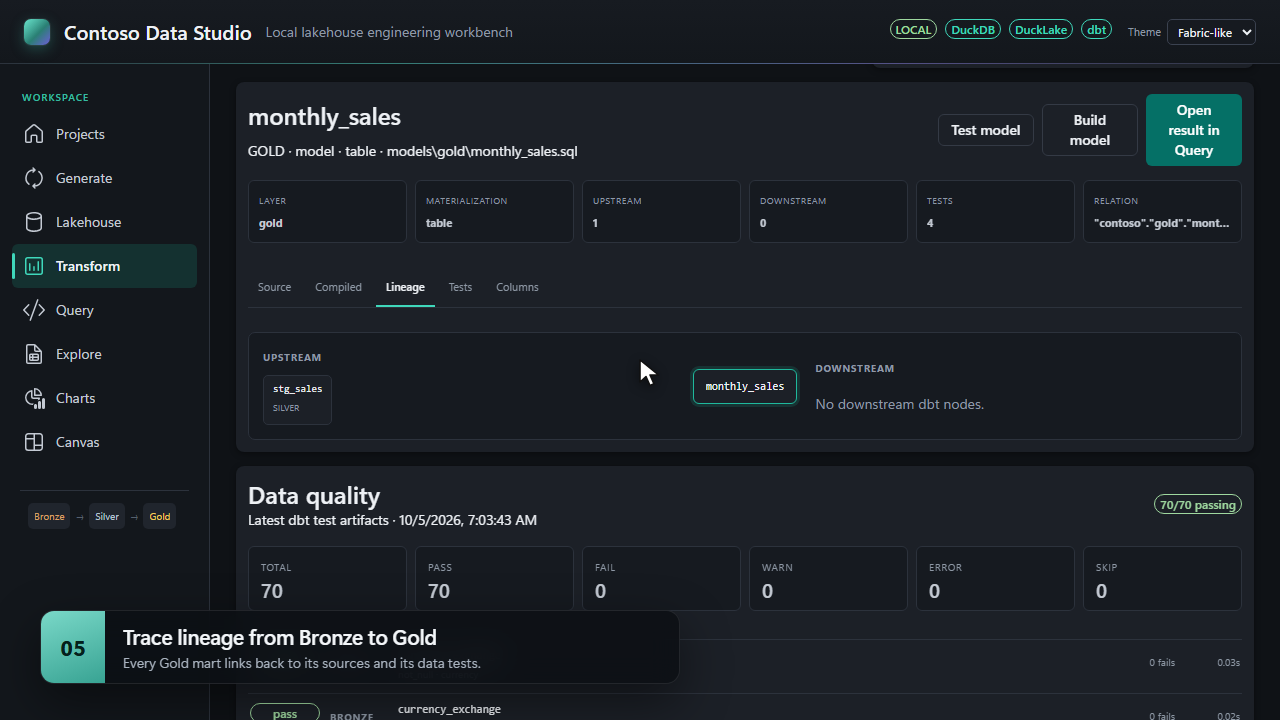
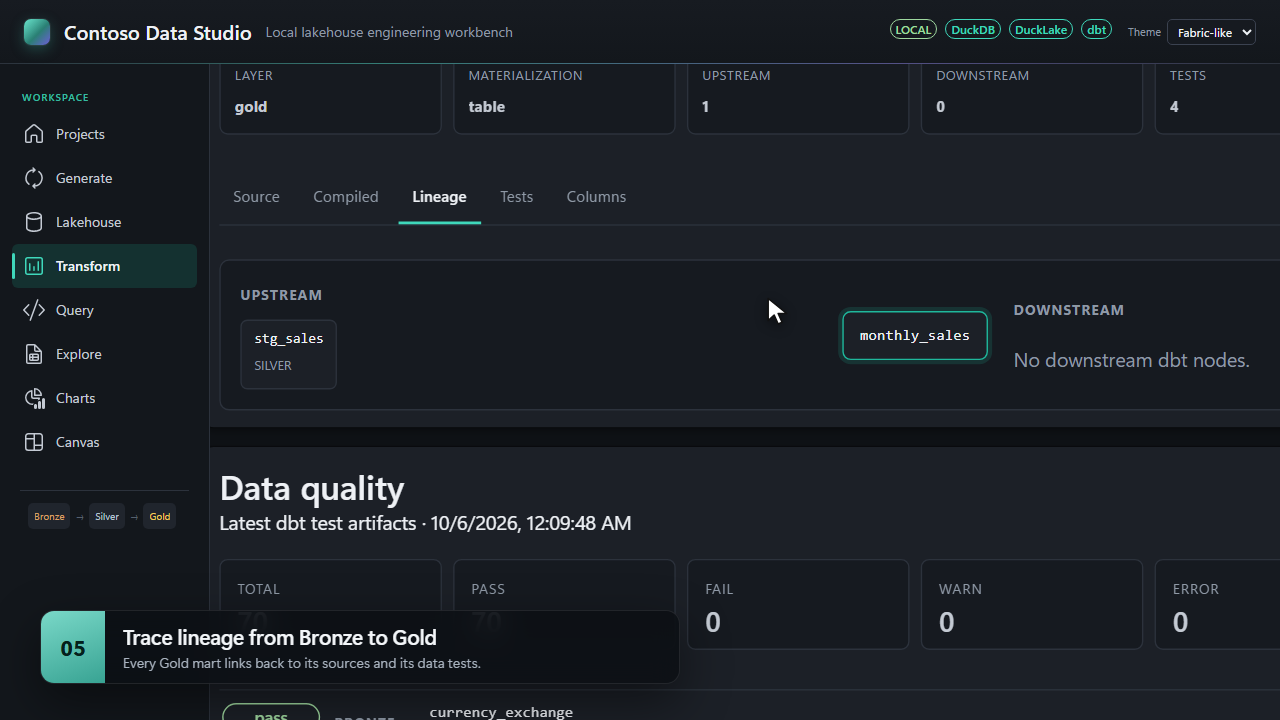
polish: tour zoom framing
Solve camera scale and pan from the focus group's bounding boxes at
capture time so the whole group stays in a safe frame; skip zooms that
cannot hold the group whole (KPI row). Add a per-frame clipping check
(focus in view, group never cut by an edge) that fails the run. Lineage
zoom now frames painted content and is used (x1.4). Re-rendered stills
and metadata.

diff --git a/README.md b/README.md
@@ -106,4 +106,4 @@ See `docs/architecture.md`.
   node tools/record_tour.mjs --base http://127.0.0.1:5173 --theme fabric
   ```
 
-  The tour opens Retail Sales 101, shows KPIs, runs the SQL step, inspects lineage and finishes the guide, with a synthetic cursor and lower-third captions. Frames are captured on a virtual clock at 30 fps / 1280x720 (`qa/video/frames/`, ignored), encoded to `qa/video/contoso-tour.mp4` (ignored) when ffmpeg is found (`--ffmpeg <path>`, `$FFMPEG_PATH`/`$FFMPEG`, PATH, or the `ffmpeg-static` package). Stills and `metadata.json` in `qa/video/` are committed. Route changes are filmed only once the new route has settled (`<html data-route-ready>` + no API request in flight), so only the content area slides in and two pages are never superimposed; camera zooms move the content area only (header and rail stay) and frame the focused card above the lower-third caption. The run fails (`metadata.json` → `checks`) when a transition shows more than 10 consecutive frames of large frame-to-frame change (a long blend) or when any frame shows two route titles or a title over another route's content. If the dev proxy must reach a non-default API port, start Vite with `CONTOSO_API_URL=http://127.0.0.1:<port>`.
+  The tour opens Retail Sales 101, shows KPIs, runs the SQL step, inspects lineage and finishes the guide, with a synthetic cursor and lower-third captions. Frames are captured on a virtual clock at 30 fps / 1280x720 (`qa/video/frames/`, ignored), encoded to `qa/video/contoso-tour.mp4` (ignored) when ffmpeg is found (`--ffmpeg <path>`, `$FFMPEG_PATH`/`$FFMPEG`, PATH, or the `ffmpeg-static` package). Stills and `metadata.json` in `qa/video/` are committed. Route changes are filmed only once the new route has settled (`<html data-route-ready>` + no API request in flight), so only the content area slides in and two pages are never superimposed; camera zooms move the content area only (header and rail stay); scale and pan are solved from the focus group's bounding boxes at capture time so the whole group stays inside a safe frame above the lower-third caption, and a group that cannot be zoomed whole (e.g. the three KPI cards) is not zoomed. The run fails (`metadata.json` → `checks`) when a transition shows more than 10 consecutive frames of large frame-to-frame change (a long blend) when any frame shows two route titles or a title over another route's content, or when a zoom frame leaves a focus element outside the visible area (safe frame at the zoom keyframe) or cuts a group element at an edge (`checks.camera_clipping`). If the dev proxy must reach a non-default API port, start Vite with `CONTOSO_API_URL=http://127.0.0.1:<port>`.
